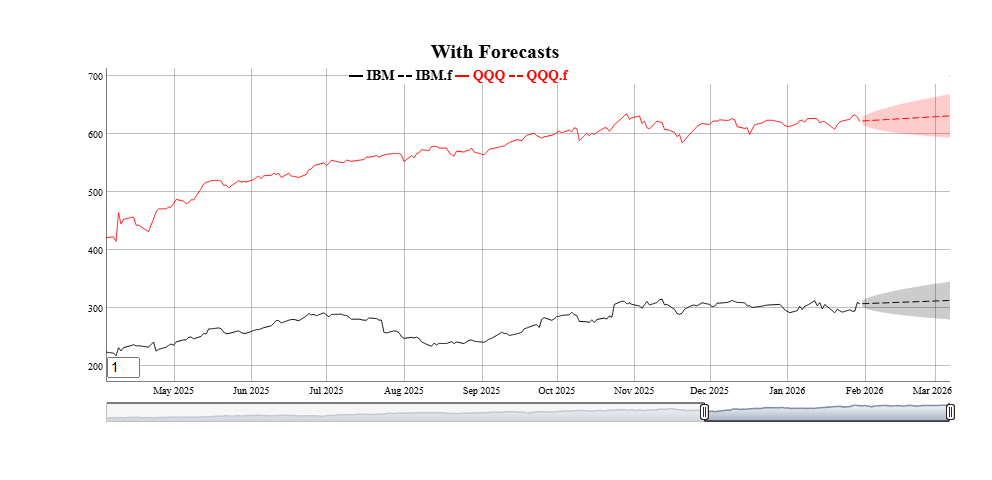
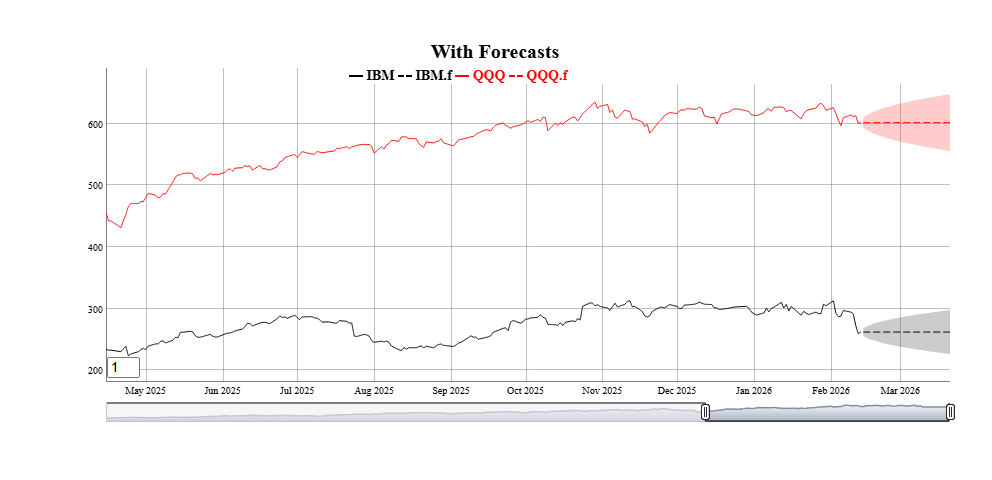
vignettes, imports

diff --git a/README.md b/README.md
@@ -43,16 +43,11 @@ series associated with the prefix of the name.
 
 Consistent colors used for all series and annotations are kept in a
 local (persistent) settings `data.frame`. Default color schemes can be
-changed (again persisantly) using the \[fg_update_colors()\] function.
+changed (again persistently) using the `fg_update_aes()` function.
 
 ## Simple Examples
 
 ``` r
-require(FinanceGraphs)
-#> Loading required package: FinanceGraphs
-#> Registered S3 method overwritten by 'quantmod':
-#>   method            from
-#>   as.zoo.data.frame zoo
 fgts_dygraph(eqtypx, title="Stock Prices", ylab="Adjusted Close")
 ```
 
@@ -65,11 +60,12 @@ window* of the form “start::end” can be used in the `dtwindow`
 parameter. Each end of the window can be a full date (e.g. “2022-01-01”)
 or a relative date string (e.g. “-6m” for 6 months ago.
 
-- One of the most appealing features of \[dygraphs\] is the ability to
-  smooth series interactively. The `roller` parameter adds a rolling
-  average smoother of the specified width (in data points). A default
-  smoothing parameter is chosen depending on the length of the
-  underlying data, but can be overridden using the `roller` parameter.
+- One of the most appealing features of
+  [dygraphs](https://dygraphs.com/) is the ability to smooth series
+  interactively. The `roller` parameter adds a rolling average
+  smootherof the specified width (in data points). A default smoothing
+  parameter is chosen depending on the length of the underlying data,
+  but can be overridden using the `roller` parameter.
 
 - Individual series can be altered in several ways:
 
@@ -124,9 +120,9 @@ Events always have a start date and a text label. THey are shown as
 vertical lines on the graph unless they also have an End Date, in which
 case the entire region is shaded. Event strings starting with `doi`
 (date of interest) are predefined events included with the package.
-Those are customizable using the \[fg_update_dates_of_interest()\] and
-can be listed using \[fg_list_dates_of_interest()\]. Event strings can
-be added together with semicolons, as in the following example:
+Those are customizable using the `fg_update_dates_of_interest()` and can
+be listed using `fg_list_dates_of_interest()`. Event strings can be
+added together with semicolons, as in the following example:
 
 ``` r
 smalldta <- eqtypx[date>=as.Date("2023-01-01"),.(date,IBM,QQQ)]
@@ -134,7 +130,7 @@ fgts_dygraph(smalldta,title="With Events",ylab="Price",events="doi,regm;doi,fedm
 ```
 
 <img src="man/figures/README-Events1-1.png" alt="Graph of Equity Prices showing Event styles" width="100%" />
-Several types of events are predefined in \[fgts_dygraph()\] including
+Several types of events are predefined in `fgts_dygraph()` including
 equity option expirations, IMM CDS roll dates, seasonal events
 (e.g. “same day in quarter as last observation”) and series extremes.
 See the vignette for more examples. Events can also be passed in as a
@@ -143,10 +139,9 @@ See the vignette for more examples. Events can also be passed in as a
 ### Event helpers
 
 Custom events can also be passed in `data.frame` format using the
-`event_ds` parameter. The details are in \[fgts_dygraph()\], but the
-basic columns are a start date date, a text label, and if applicable an
-end date. Only events within the dates of the original input data are
-shown.
+`event_ds` parameter. The details are in `fgts_dygraph()`, but the basic
+columns are a start date date, a text label, and if applicable an end
+date. Only events within the dates of the original input data are shown.
 
 The package includes a few “event helpers” to make it easy to generate
 the right formats for given more complicated types of events and
@@ -157,7 +152,6 @@ two that can be done.
 events_consumer_sent <- fg_cut_to_events(consumer_sent,center="zscore")
 head(events_consumer_sent,2)
 #>    value     color END_DT_ENTRY   DT_ENTRY runlen
-#>    <int>    <char>       <Date>     <Date>  <int>
 #> 1:     3 #9595FFFF   2016-03-02 2016-01-01      3
 #> 2:     2 #CACAFFFF   2016-04-02 2016-03-02      1
 fgts_dygraph(smalldta,title="Equity Prices w Sentiment",event_ds=events_consumer_sent)
@@ -185,11 +179,9 @@ to show the transition.
 
 ``` r
 head(example_fcst_set,2)
-#> Key: <date>
 #>          date    QQQ.f  QQQ.flo  QQQ.fhi    IBM.f  IBM.flo  IBM.fhi
-#>        <Date>     <ts>    <num>    <num>     <ts>    <num>    <num>
-#> 1: 2026-01-31 622.6611 615.9843 629.3379 306.9482 301.3265 312.5699
-#> 2: 2026-02-01 622.9118 613.7795 632.0441 307.1080 299.3237 314.8924
+#> 1: 2026-02-14 601.8882 593.7090 610.0673 262.3268 256.2824 268.3712
+#> 2: 2026-02-15 601.8882 590.6732 613.1032 262.3268 253.8659 270.7877
 fgts_dygraph(smalldta,title="With Forecasts", dtstartfrac=0.7,forecast_ds=example_fcst_set)
 ```
 
@@ -204,37 +196,32 @@ outputs into the appropriate `foreast_ds` forms
 | `fg_sweep()` | Converts [tidy forecast objects](https://business-science.github.io/sweep/) to `forecast_ds` form. |
 | `fg_prophet()` | Converts [Prophet](https://business-science.github.io/sweep/) to `forecast_ds` form. |
 
-## Changing colors and adding dates of interest
+## Changing aesthetics and adding dates of interest
 
 Default colors for series and annotations can be changed using
-\[fg_update_colors()\] or \[fg_update_line_colors()\].  
-Any changes made to colors will persist across loads of the package
-(unless `persist=FALSE` is specified). As an example, to make a
-graduated set of colors for the first 3 series.
+`fg_update_aes()` or `fg_update_line_colors()`. Any changes made to
+aesthetics colors will persist across loads of the package (unless
+`persist=FALSE` is specified). To see what aesthetics are used for any
+particular function, use `fg_print_aes_list()` As an example, to make a
+graduated set of colors for the first 2 series.
 
 ``` r
-fg_get_colors("lines",n_max=4)
-#>    category variable     color  const
-#>      <char>   <char>    <char> <char>
-#> 1:    lines      D01     black       
-#> 2:    lines      D02       red       
-#> 3:    lines      D03 darkgreen       
-#> 4:    lines      D04      blue
-fg_update_line_colors( rev(RColorBrewer::brewer.pal(8,"GnBu"))[1:3] )
-#> Saved Colors of interest file to C:\Users\DFH\AppData\Local/R/cache/R/FinanceGraphs/fg_colors.RD
-fg_get_colors("lines",n_max=4)
-#> Key: <category, variable>
-#>    category variable   color  const
-#>      <char>   <char>  <char> <char>
-#> 1:    lines      D01 #08589E       
-#> 2:    lines      D02 #2B8CBE       
-#> 3:    lines      D03 #4EB3D3       
-#> 4:    lines      D04    blue
+fg_get_aes("lines",n_max=2)
+#>    category variable  type value const used                     helpstr
+#> 1:    lines      D01 color black        all Low cardinality line colors
+#> 2:    lines      D02 color   red        all Low cardinality line colors
+fg_update_line_colors( rev(RColorBrewer::brewer.pal(8,"GnBu"))[1:2] )
+#> Saved updates to C:\Users\DFH\AppData\Local/R/cache/R/FinanceGraphs/fg_aes.RD
+fg_get_aes("lines",n_max=3)
+#>    category variable  type   value const used                     helpstr
+#> 1:    lines      D01 color #08589E        all Low cardinality line colors
+#> 2:    lines      D02 color #2B8CBE        all Low cardinality line colors
+#> 3:    lines      D03 color    blue        all Low cardinality line colors
 ```
 
 New dates of interest used for the `events` parameter can also be added.
 To add (for example) a new FOMC cut of 50bps on 6/16/2026 (after the
-development of this package), use \[fg_update_dates_of_interest()\].
+development of this package), use `fg_update_dates_of_interest()`.
 Resetting the lists (and colors) can also be done.
 
 ``` r
@@ -243,9 +230,12 @@ fg_update_dates_of_interest(newdoi)
 #> Saved dates of interest file to C:\Users\DFH\AppData\Local/R/cache/R/FinanceGraphs/fg_doi.RD
 tail(fg_get_dates_of_interest("fedmoves"),2)  |> data.frame()
 #>   category eventid eventid2   DT_ENTRY END_DT_ENTRY color strokePattern  loc
-#> 1 fedmoves   F:-25  rt:3.75 2025-12-10   2025-12-10  <NA>          <NA> <NA>
-#> 2 fedmoves   F:-50     <NA> 2026-06-16   2026-06-16  <NA>          <NA> <NA>
+#> 1 fedmoves   F:-25     rt:4 2025-10-29   2025-10-29  <NA>          <NA> <NA>
+#> 2 fedmoves   F:-25  rt:3.75 2025-12-10   2025-12-10  <NA>          <NA> <NA>
 fg_reset_to_default_state()
+#> Removing dates file and reverting to defaults of package
+#> Removing Aesthetics file and reverting to defaults of package
+#> Removing User-made Themes and reverting to defaults of package
 #> fg_reset_to_default_state(all) completed
 ```
 
@@ -254,50 +244,135 @@ fg_reset_to_default_state()
 Dygraphs have the very nice feature of allowing synchronized zoom in
 Markdown or Shiny applications. Each graph with a common `group`
 identifier is synchronized. There are times, however, when you want to
-turn these on or off. The function \[fg_sync_group()\] either returns
-the current group name if called with no parameters, sets the group name
+turn these on or off. The function `fg_sync_group()` either returns the
+current group name if called with no parameters, sets the group name
 with a string, or turns off synchronization with a call
 `fg_sync_group(NULL)`.
 
 # Static Plots for Time Series
 
+## Scatter Plots with time dimension enhancements
+
+Key to understanding how time series co-move is a simple scatter plot.
+The function `fg_scatplot()` tries to be a concise wrapper around the
+very comprehensive [ggplot2](https://ggplot2.tidyverse.org/) graphics
+framework.
+``` ggplot2()]`` is a great ecosystem, but requires quite a bit of verbiage to get from idea to presentable graph quickly.  The approach used here is to specify broad categories of aesthetics with a formula, while the details are kept behind the hood using the aesthetic sets managed by ```fg_get_aes()\`
+as above. Fuller explanations and more examples are in the accompanying
+vignette.
+
+This “one-line” approach can be used with both date-based and non-date
+based datasets. For example, suppose we wanted to plot two asset prices
+against each other so that we can easily understand both how they
+co-move, where they have been recently, and where they are now. We will
+start by making a fake dataset of two sets of two assets each.
+
+``` r
+set.seed(1)
+ndates <- 400;
+samp_rw <- function() { 100*(1+cumsum(rnorm(ndates,sd=0.2/sqrt(260)))) }
+dts <- seq(as.Date("2021-01-01"),as.Date("2021-01-01")+ndates-1)
+dttest <- rbind( data.table(date=dts,ccat="A",px_x=samp_rw(),px_y=samp_rw()),
+                 data.table(date=dts,ccat="B",px_x=samp_rw(),px_y=samp_rw()))
+```
+
+A scatter plot of where those two assets are and where they have been is
+as easy as specifying (in one string!) columns to plot, a column for
+color, and a term to split the dates into 2 month and 6 month intervals,
+and finally a term to show where the latest observations are. As with
+`fgts_dygraph()`, date partitions can be custom regimes managed by
+`fg_update_dates_of_interest()`.
+
+``` r
+fg_scatplot(dttest,"px_y ~ px_x + color:ccat + doi:recent + point:label","lmone",datecuts=c(60,182),title="Splitting dates")
+```
+
+<img src="man/figures/README-Scatter1-1.png" alt="Scatterplot with two categories and recent highlighting." width="100%" />
+One important feature of the static plots in this package to note is
+that they include options for switching the colors of large numbers of
+groups or points from discrete values to continuous values from the
+[RColorBrewer](https://colorbrewer2.org) package.
+
+`fg_scatplot()` does not require dates in the input data, and can be
+useful for communicating comparative analyses as well. The `mtcars`
+dataset shows how we can add a lot of information to a basic text
+scatterplot.
+
+``` r
+dt_mtcars=data.table(datasets::mtcars)[,let(id=lapply(rownames(datasets::mtcars),\(x) last(strsplit(x," ")[[1]])))]
+fg_scatplot(dt_mtcars,"disp ~ hp + color:carb + label:id","lmonenoeqn",n_color_switch=0,title="Text with color switch")
+```
+
+<img src="man/figures/README-Scatter2-1.png" alt="Scatterplot with text and linear models" width="100%" />
+
+Many more examples that encapsulate a large part of the
+[ggplot2](https://ggplot2.tidyverse.org/) corpus are in the accompanying
+vignette.
+
 ## Time-categorized box plots
 
 One way to visualize multiple time series comparatively with a boxplot
-or a violin plot. The function \[fg_tsboxplot()\] provides a flexible
-way to split several time series into time categories. Usually, those
+or a violin plot. The function `fg_tsboxplot()` provides a flexible way
+to split several time series into time categories. Usually, those
 categories are time periods with increasing horizons, but this function
-allows for arbitrary periods managed by
-\[fg_update_dates_of_interest()\]. Data can be normalized across
-historical categories and time series categories.
-
-As an example, suppose we would like to see normalized equity prices
-over the past two years, split into categories of the last week, month
-(less the last week) and the last quarter.
+allows for arbitrary periods managed by `fg_update_dates_of_interest()`.
+Data can be normalized across historical categories and time series
+categories. As an example, suppose we would like to see normalized
+equity prices over the past two years, split into categories of the last
+week, month (less the last week) and the last quarter.
 
 ``` r
 fg_tsboxplot(narrowbydtstr(eqtypx,"-2y::"),breaks=c(7,90),normalize="byvar",title="Normalized Equity prices by Date category")
-#> Warning in `[.data.table`(break_set, dtm, on = .(BEG_DT_ENTRY <= DT_ENTRY, :
-#> Both 'tcollist' and '..tcollist' exist in calling scope. Please remove the
-#> '..tcollist' variable in calling scope for clarity.
 ```
 
 <img src="man/figures/README-Boxplot1-1.png" alt="Boxplot of relative equity prices" width="100%" />
 
-Like \[fgts_dygraph()\], the function can take data in both wide and
-long formats. Longer formats have the advantage of adding more
-categorical levels to our graphs. For example, we can plotting recent
-ranges of the monthly FX Real Exchange Rate dataset in the following
-way. Here, we split the data into buckets of last 20pct of the months,
-the first half the months and the last. We will also show the last
-observation, hide the boxplot whiskers, and reorder the currencies by
-their relative weakness.
+Like `fgts_dygraph()`, the function can take data in both wide and long
+formats. Longer formats have the advantage of adding more categorical
+levels to our graphs. For example, we can plotting recent ranges of the
+monthly FX Real Exchange Rate dataset in the following way. Here, we
+split the data into buckets of last 20pct of the months, the first half
+the months and the last. We will also show the last observation, hide
+the boxplot whiskers, and reorder the currencies by their relative
+weakness.
 
 ``` r
 fg_tsboxplot(reerdta,breaks=c(0,0.2,0.5,1),doi="last",orderby="value",boxtype="nowhisker",facetform=". ~ REGION",title="Real Eff. Exch Rates")
-#> Warning in `[.data.table`(break_set, dtm, on = .(BEG_DT_ENTRY <= DT_ENTRY, :
-#> Both 'tcollist' and '..tcollist' exist in calling scope. Please remove the
-#> '..tcollist' variable in calling scope for clarity.
 ```
 
 <img src="man/figures/README-Boxplot2-1.png" alt="Boxplot of Real Effective Exchange Rates" width="100%" />
+
+## Event Studies
+
+Trying to understand how events or environments may impact prices can be
+summarized well by plotting their movements relative to a date against
+time relative to the event. The function `fg_eventStudy()` integrates a
+set of dates with a set of time series to plot their relative behavior
+over the business days before and after each event. It is designed to
+show reasonably large sets of assets or event dates by switching
+discrete color scales to gradient scales after a user specified number.
+
+There are several ways to show the data, including path-by-path,
+statistics by event (i.e. across assets) or by asset (across events),
+boxplots, or scatter plots of moves at the edge of the intervals.
+
+For example, to see the behavior of various parts of the US yield curve
+around FOMC cuts, just use the following
+
+``` r
+dtset <- fg_get_dates_of_interest("fedmoves")[grepl("F:-",eventid),.(DT_ENTRY,text=eventid2)]
+fg_eventStudy(yc_CMSUST,dtset,output="pathbyvar",
+              title="Constant Maturity UST tenors around Fed Cuts")
+```
+
+<img src="man/figures/README-EventStudies1-1.png" alt="Relative rate moves around recent Fed Cuts" width="100%" />
+
+We can see that curves reach their peak steepening around a week after
+the event. To see this a little more succinctly, we can use
+
+``` r
+fg_eventStudy(yc_CMSUST,dtset,output="scatter",nbd_back=5,nbd_fwd=6,
+                title="Constant Maturity UST tenors around Fed Cuts at 5 days")
+```
+
+<img src="man/figures/README-EventStudies2-1.png" alt="Scatter plot of moves before and after Fed Rate Cuts" width="100%" />
